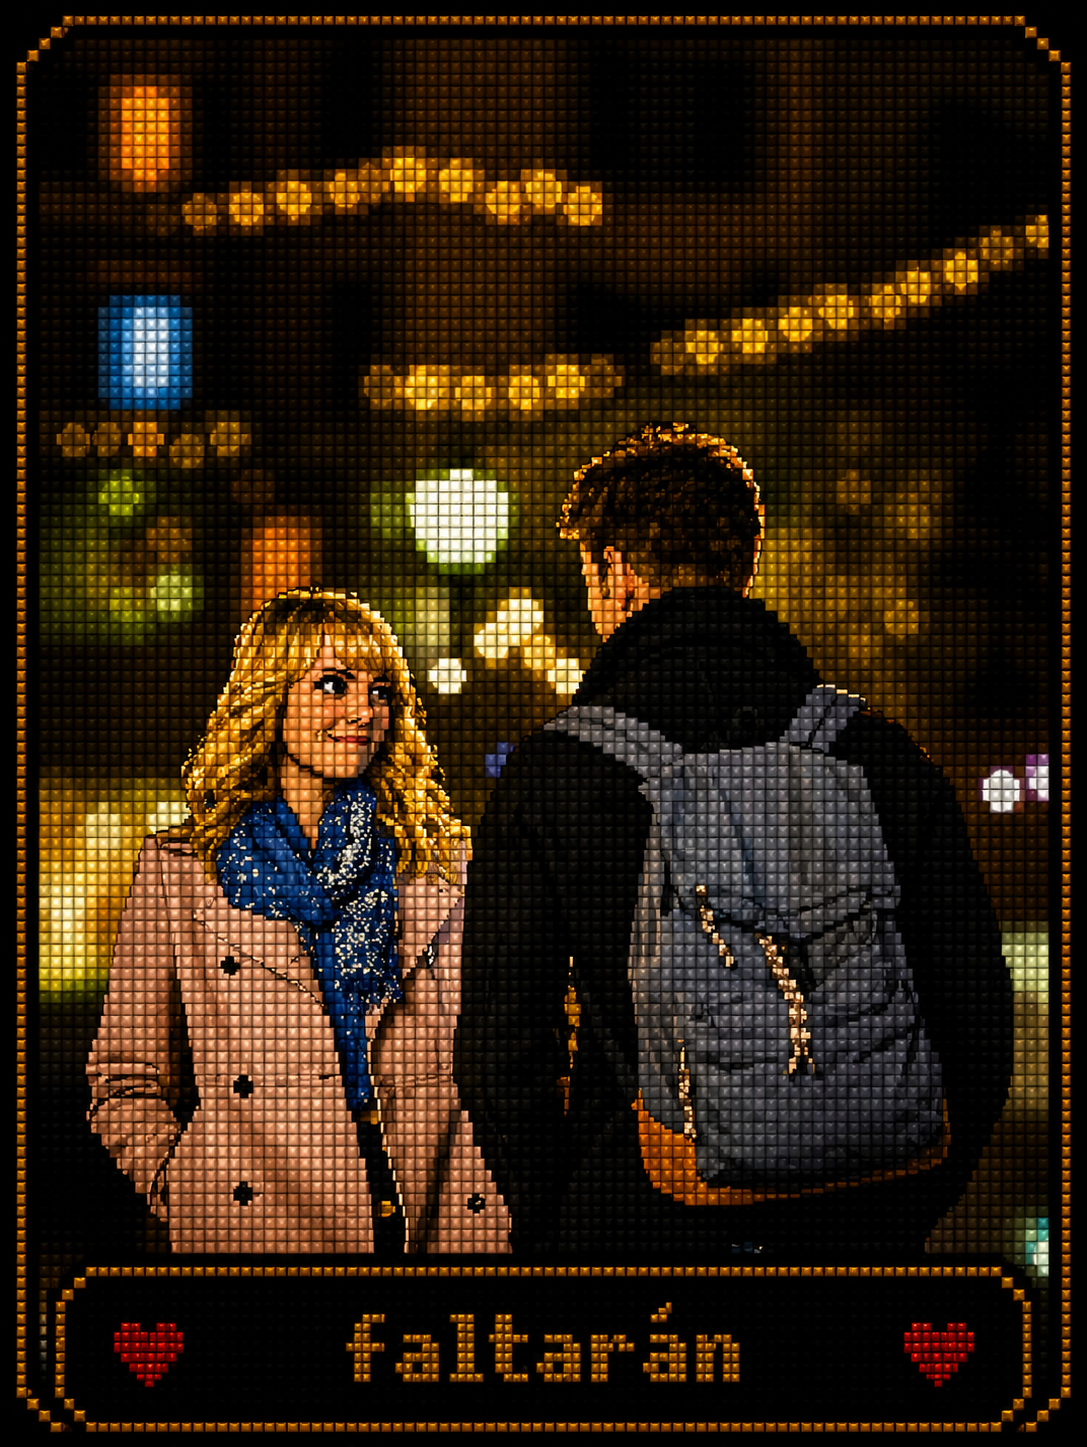
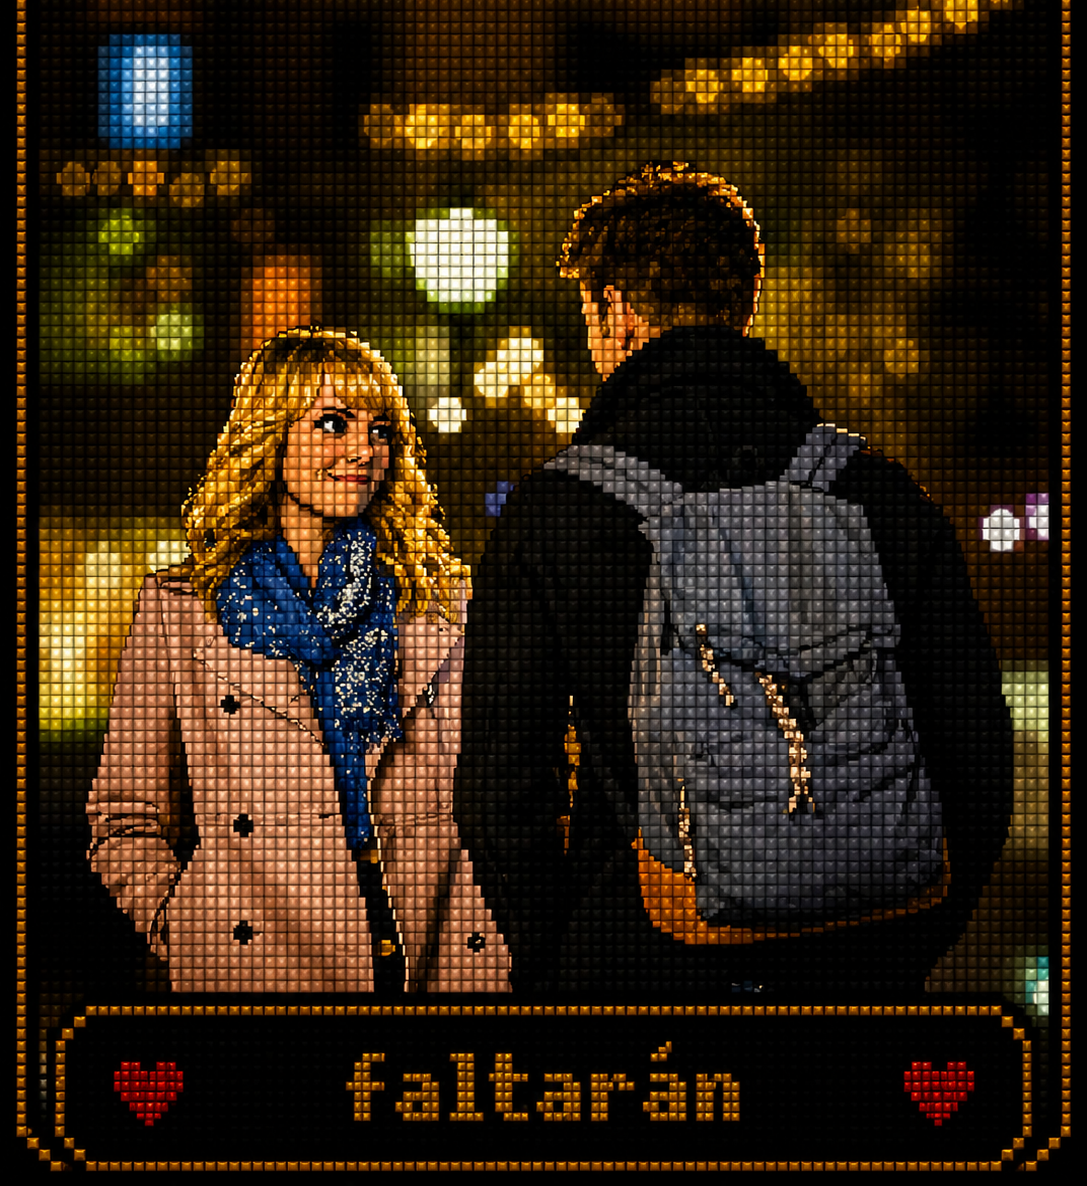
update: contenido

diff --git a/index.html b/index.html
@@ -355,7 +355,7 @@
     <div class="tab-panel active" id="tabPlayer">
       <div class="player">
         <div class="titlebar">
-          <span>Reproductor — ahora sonando, escuchar completas</span>
+          <span>Escuchar completas, hasta el último segundo, desbloquearás algo secreto</span>
           <span class="dots"><span></span><span></span><span></span></span>
         </div>
 